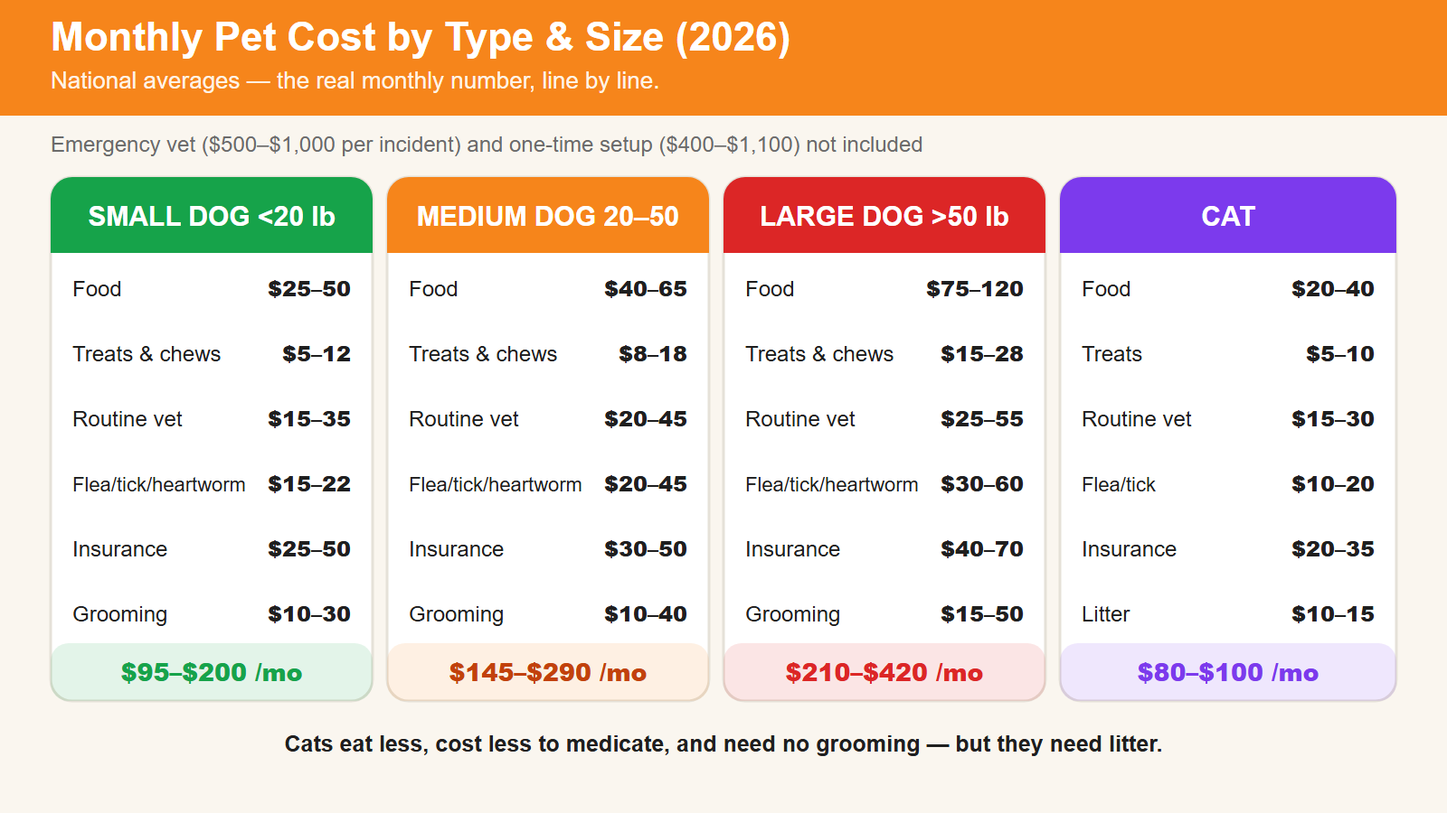
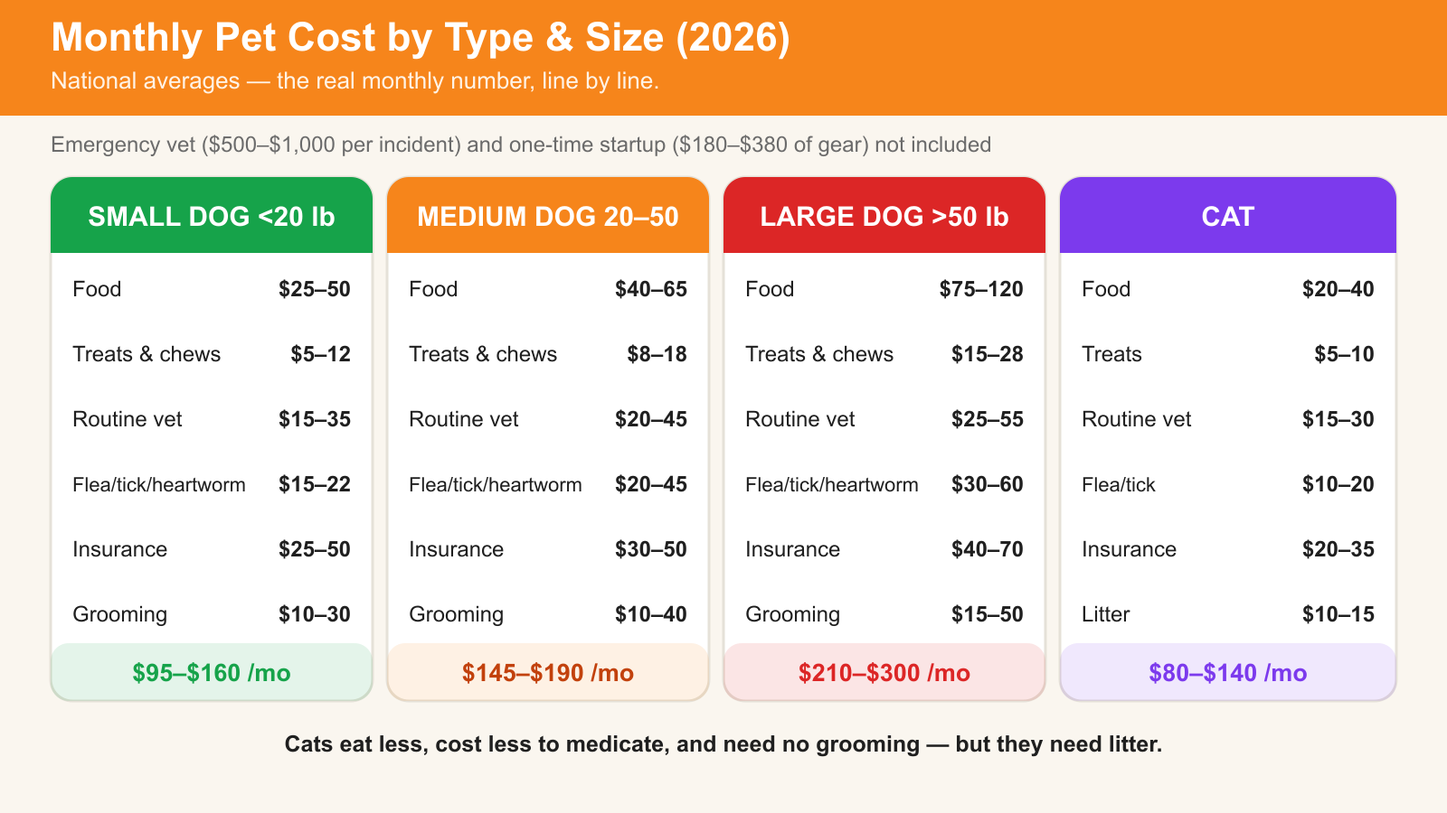
Cost calculator: add one-time startup costs
monthly-pet-cost now totals the one-time startup separately below the monthly
figure, so a reader sees both numbers instead of one blended lie. Nothing is
invented — every figure is taken from a page already published on the site.

Dog side (itemised, because the source is itemised):
  supplies      $180-$380   new-puppy-checklist's gear table
  adoption      $350        the shelter fee in first-year-dog-cost's tracker
  first-month   $225-$425   that checklist's first-30-days vet table
  => $755-$1,155 one-time

Cat side (bundled, deliberately not itemised): $500-$800 for year one from the
British Shorthair guide, which already includes spay/neuter, microchip, first
vaccines and basic supplies. Splitting it would double-count those.

No breed page publishes startup gear data, so this is per species, not per breed.

Also in this commit:

- FAQ wording unified. The "What's NOT included" answer quoted "roughly
  $400-$1,100 in year one", a figure the calculator no longer produces. It now
  cites the checklist's $180-$380 and says the calculator totals it separately.
  The visible <p> and the FAQPage schema text are word-for-word identical.

- monthly-pet-cost's Est. Monthly Total row was wrong in three of four columns
  ($95-100 / $145-190 / $210-320 / $80-100). Recomputed from that table's own
  line items: $95-160 / $145-190 / $210-300 / $80-140. All four now balance.
  Three of the cells also had a stray "C" where an en dash belonged
[…]

diff --git a/monthly-pet-cost.html b/monthly-pet-cost.html
@@ -26,7 +26,7 @@
   <meta name="twitter:image" content="https://www.meltpet.com/img/og/tools-og.png">
   <script type="application/ld+json">{"@context":"https://schema.org","@type":"WebApplication","name":"Monthly Pet Cost Calculator","description":"Interactive calculator estimating the real monthly cost of pet ownership.","url":"https://www.meltpet.com/monthly-pet-cost","applicationCategory":"Finance","author":{"@type":"Person","name":"Sarah Mitchell","url":"https://www.meltpet.com/sarah-mitchell"}}</script>
   <script type="application/ld+json">{"@context":"https://schema.org","@type":"Organization","name":"MeltPet","alternateName":"Melt Pet","url":"https://www.meltpet.com/","description":"Independent pet resource — breed finder, cost calculators, and evidence-backed guides."}</script>
-  <script type="application/ld+json">{"@context":"https://schema.org","@type":"FAQPage","mainEntity":[{"@type":"Question","name":"How accurate is this calculator for my specific situation?","acceptedAnswer":{"@type":"Answer","text":"Our calculator uses 2026 national average cost data from the American Veterinary Medical Association and American Pet Products Association. It gives you a solid budgeting baseline. But your actual number depends on where you live — vet care in New York City costs 30–50% more than in rural Ohio, and pet food prices vary by retailer and region. We recommend adding a 15–20% buffer when you use these numbers for actual budgeting. The calculator isn't meant to nail the exact dollar figure. It's meant to prevent the sticker shock that hits people who've already named the dog but haven't yet added up the numbers."}},{"@type":"Question","name":"What's NOT included in the monthly estimate?","acceptedAnswer":{"@type":"Answer","text":"The monthly number excludes: one-time setup costs (crate $40–100, bed $20–30, bowls, leash, collar — roughly $400–$1,100 in year one); emergency veterinary care ($500–$1,000 per incident — the calculator's insurance toggle partly covers this if you select it); boarding or pet sitting during travel ($25–35/night); training classes ($150–200 for a group course); and puppy destruction ($100–200 in year one). These aren't monthly but they're real, and they add up. Budget for them separately."}},{"@type":"Question","name":"Cat vs dog — which actually costs less?","acceptedAnswer":{"@type":"Answer","text":"Cats cost less. A typical indoor cat runs $80–100 per month versus $95–120 for a dog, depending on size. The gap comes from several places: cats eat less, their medications are dosed lower by weight, and most cats don't need professional grooming. Cats do have one cost dogs don't — litter, at $10–15/month. But the biggest driver of the gap is simply body mass. A 10-pound cat versus a 75-pound Golden Retriever: everything scales. The lifetime total tells the story clearly — a cat over 15 years may cost $14,000–16,000, while a large dog over 10 years can run $30,000–40,000."}},{"@type":"Question","name":"Does the calculator use breed-specific costs?","acceptedAnswer":{"@type":"Answer","text":"Only where we have published them. Eight breeds currently have a full monthly breakdown drawn from our own breed guides — Golden Retriever, all three Poodle sizes, Dachshund, French Bulldog, Sphynx and Bengal. Pick one of those and the calculator swaps in that breed’s real numbers instead of a size-band average. For every other breed it falls back to the size estimate and says so in the result. We would rather show you a labelled estimate than invent a breed figure."}}]}</script>
+  <script type="application/ld+json">{"@context":"https://schema.org","@type":"FAQPage","mainEntity":[{"@type":"Question","name":"How accurate is this calculator for my specific situation?","acceptedAnswer":{"@type":"Answer","text":"Our calculator uses 2026 national average cost data from the American Veterinary Medical Association and American Pet Products Association. It gives you a solid budgeting baseline. But your actual number depends on where you live — vet care in New York City costs 30–50% more than in rural Ohio, and pet food prices vary by retailer and region. We recommend adding a 15–20% buffer when you use these numbers for actual budgeting. The calculator isn't meant to nail the exact dollar figure. It's meant to prevent the sticker shock that hits people who've already named the dog but haven't yet added up the numbers."}},{"@type":"Question","name":"What's NOT included in the monthly estimate?","acceptedAnswer":{"@type":"Answer","text":"The monthly number excludes: one-time startup costs (gear $180–$380 from our itemised puppy checklist, plus the adoption fee and first-month vet — the calculator now totals this separately below your monthly figure); emergency veterinary care ($500–$1,000 per incident — the calculator's insurance toggle partly covers this if you select it); boarding or pet sitting during travel ($25–35/night); training classes ($150–200 for a group course); and puppy destruction ($100–200 in year one). These aren't monthly but they're real, and they add up. Budget for them separately."}},{"@type":"Question","name":"Cat vs dog — which actually costs less?","acceptedAnswer":{"@type":"Answer","text":"Cats cost less. A typical indoor cat runs $80–100 per month versus $95–120 for a dog, depending on size. The gap comes from several places: cats eat less, their medications are dosed lower by weight, and most cats don't need professional grooming. Cats do have one cost dogs don't — litter, at $10–15/month. But the biggest driver of the gap is simply body mass. A 10-pound cat versus a 75-pound Golden Retriever: everything scales. The lifetime total tells the story clearly — a cat over 15 years may cost $14,000–16,000, while a large dog over 10 years can run $30,000–40,000."}},{"@type":"Question","name":"Does the calculator use breed-specific costs?","acceptedAnswer":{"@type":"Answer","text":"Only where we have published them. Eight breeds currently have a full monthly breakdown drawn from our own breed guides — Golden Retriever, all three Poodle sizes, Dachshund, French Bulldog, Sphynx and Bengal. Pick one of those and the calculator swaps in that breed’s real numbers instead of a size-band average. For every other breed it falls back to the size estimate and says so in the result. We would rather show you a labelled estimate than invent a breed figure."}}]}</script>
 </head>
 <body>
   <a href="#main-content" class="skip-link">Skip to content</a>
@@ -74,7 +74,7 @@
   <button class="btn-primary" onclick="calculate()">💵 Calculate My Monthly Cost</button>
   <div class="result-card" id="result" style="display:none"></div>
   </div>
-  <img src="https://cdn.meltpet.com/article/monthly-pet-cost-by-type.png" alt="Monthly pet cost comparison by type and size: small dog $95-$200, medium dog $145-$290, large dog $210-$420, cat $80-$100 per month — food, treats, routine vet, flea and tick prevention, insurance, grooming, and litter line items" width="800" height="450" style="max-width:100%;height:auto;border-radius:8px;display:block;margin:20px 0;" loading="lazy">
+  <img src="https://cdn.meltpet.com/article/monthly-pet-cost-by-type.png" alt="Monthly pet cost comparison by type and size: small dog $95-$160, medium dog $145-$190, large dog $210-$300, cat $80-$140 per month — food, treats, routine vet, flea and tick prevention, insurance, grooming, and litter line items" width="800" height="450" style="max-width:100%;height:auto;border-radius:8px;display:block;margin:20px 0;" loading="lazy">
     <article class="article-section">
   <h2>💸 Cost Questions Pet Owners Actually Ask</h2>
 
@@ -82,7 +82,7 @@
   <p>Our calculator uses 2026 national average cost data from the American Veterinary Medical Association and American Pet Products Association. It gives you a solid budgeting baseline. But your actual number depends on where you live — vet care in New York City costs 30–50% more than in rural Ohio, and pet food prices vary by retailer and region. We recommend adding a 15–20% buffer when you use these numbers for actual budgeting. The calculator isn't meant to nail the exact dollar figure. It's meant to prevent the sticker shock that hits people who've already named the dog but haven't yet added up the numbers.</p>
 
   <h3>What's NOT included in the monthly estimate?</h3>
-  <p>The monthly number excludes: one-time setup costs (crate $40–100, bed $20–30, bowls, leash, collar — roughly $400–$1,100 in year one); emergency veterinary care ($500–$1,000 per incident — the calculator's insurance toggle partly covers this if you select it); boarding or pet sitting during travel ($25–35/night); training classes ($150–200 for a group course); and puppy destruction ($100–200 in year one). These aren't monthly but they're real, and they add up. Budget for them separately.</p>
+  <p>The monthly number excludes: one-time startup costs (gear $180–$380 from our itemised puppy checklist, plus the adoption fee and first-month vet — the calculator now totals this separately below your monthly figure); emergency veterinary care ($500–$1,000 per incident — the calculator's insurance toggle partly covers this if you select it); boarding or pet sitting during travel ($25–35/night); training classes ($150–200 for a group course); and puppy destruction ($100–200 in year one). These aren't monthly but they're real, and they add up. Budget for them separately.</p>
 
   <h3>Cat vs dog — which actually costs less?</h3>
   <p>Cats cost less. A typical indoor cat runs $80–100 per month versus $95–120 for a dog, depending on size. The gap comes from several places: cats eat less, their medications are dosed lower by weight, and most cats don't need professional grooming. Cats do have one cost dogs don't — litter, at $10–15/month. But the biggest driver of the gap is simply body mass. A 10-pound cat versus a 75-pound Golden Retriever: everything scales. The lifetime total tells the story clearly — a cat over 15 years may cost $14,000–16,000, while a large dog over 10 years can run $30,000–40,000.</p>
@@ -105,7 +105,7 @@
   <tr><td>Grooming</td><td>$10–20</td><td>$15–20</td><td>$20–30</td><td>$0–10</td></tr>
   <tr><td>Toys &amp; Supplies</td><td>$10–20</td><td>$15–25</td><td>$20–25</td><td>$10–20</td></tr>
   <tr><td>Litter (cats only)</td><td></td><td></td><td></td><td>$10–15</td></tr>
-  <tr style="border-top:2px solid var(--accent);"><td><strong>Est. Monthly Total</strong></td><td><strong>$95C100</strong></td><td><strong>$145C190</strong></td><td><strong>$210C320</strong></td><td><strong>$80–100</strong></td></tr>
+  <tr style="border-top:2px solid var(--accent);"><td><strong>Est. Monthly Total</strong></td><td><strong>$95–160</strong></td><td><strong>$145–190</strong></td><td><strong>$210–300</strong></td><td><strong>$80–140</strong></td></tr>
   </tbody>
   </table></div>
   <p style="font-size:0.83rem;color:var(--text-muted);">Ranges are national averages. Your actual cost depends on location, brand choices, and your pet's individual health. Emergency vet visits (not included above) add $500–$1,000 per incident.</p>
@@ -290,6 +290,41 @@
   // to line up — otherwise selecting "DIY" makes a Standard Poodle look cheap.
   var GROOM_RATIO = {diy:[0, 0.1], occasional:[0.45, 0.6], regular:[1, 1]};
 
+  // ── One-time startup costs ─────────────────────────────────────────────
+  // Two published sources, and they measure different things — so this is a
+  // range whose two ends each have a citation, not an invented spread:
+  //   · new-puppy-checklist's itemised gear table sums to $180–$380
+  //     (page rounds its own total to "Startup total $180–$380")
+  //   · first-year-dog-cost's 365-day tracker logged $480 of initial supplies,
+  //     which that page explains is the same list *plus* grooming gear and a
+  //     second gate.
+  //   · Adoption/source fee is the tracker's $350 shelter fee. Buying from a
+  //     breeder runs $800–$3,500 (adopt-vs-buy page) — a note, not a default,
+  //     because we can't know which path a reader took.
+  // Cats: British Shorthair guide publishes $500–800 for year one *including*
+  // spay/neuter, microchip, first vaccines and basic supplies — the only
+  // cat-side figure on the site, so it is used verbatim and labelled as such.
+  // 🔴 No breed page publishes startup gear data, so this CANNOT be per-breed.
+  //    It is per species. Don't wire it to BREEDS.
+  var STARTUP = {
+    dog: {
+      label:'Dog',
+      mode:'range',
+      supplies:[180, 380],
+      extras:[
+        {label:'Adoption or shelter fee', lo:350, loLabel:'$350 (shelter, adult dog)'},
+        {label:'First-month vet', lo:225, hi:425}
+      ],
+      note:'Gear is <a href="/new-puppy-checklist">the itemised checklist</a> ($180–$380). Our own 365-day tracker logged <a href="/first-year-dog-cost">$480</a> once grooming gear and a second gate were added. Vet figure is that checklist&rsquo;s first-30-days table.'
+    },
+    cat: {
+      label:'Cat',
+      mode:'bundled',
+      bundled:[500, 800],
+      bundledNote:'$500–800 for the whole first year including <strong>spay/neuter, microchip, first vaccinations and basic supplies</strong> (litter box, carrier, scratching posts, bed) — the figure published on our <a href="/british-shorthair-guide">British Shorthair guide</a>. Because it is already bundled, we don&rsquo;t itemise it: doing so would double-count the spay/neuter and shots.'
+    }
+  };
+
   function rGroom(bg, mode) {
     if (bg[0] === 0 && bg[1] === 0) return 0;
     var k = GROOM_RATIO[mode] || [1, 1];
@@ -365,6 +400,53 @@
   html += '</p>';
   html += '<p style="font-size:0.88rem;margin-top:10px;border-top:1px solid var(--border);padding-top:10px;">📅 <strong>$' + annual.toLocaleString() + '</strong> per year &nbsp;|&nbsp; 🐾 ~<strong>$' + lifetime.toLocaleString() + '</strong> lifetime estimate</p>';
   html += '<p style="font-size:0.76rem;color:var(--text-muted);margin-top:8px;">' + srcNote + '</p>';
+
+  // ── One-time startup block ─────────────────────────────────────────────
+  // Deliberately a SEPARATE block, never folded into the monthly total: mixing
+  // a $380 crate run into a per-month figure is how the "dogs cost $95/month"
+  // genre of advice ends up useless. We also keep emergency vet out of it —
+  // first-year-dog-cost's own $1,240 sock surgery was reimbursed $2,560, so it
+  // is a luck-dependent year, not a startup cost.
+  var isCat = pet.indexOf('cat') >= 0;
+  var S = isCat ? STARTUP.cat : STARTUP.dog;
+  var startHtml = '';
+  var sLo = 0, sHi = 0;   // hoisted: needed for the year-one total below both branches
+
+  if (S.mode === 'range') {
+    sLo = S.supplies[0]; sHi = S.supplies[1];
+    // extras with a known upper bound get added to both ends; the flat
+    // adoption fee ($350) has no range in the source, so it adds to both.
+    S.extras.forEach(function (e) {
+      sLo += e.lo;
+      sHi += (typeof e.hi === 'number' ? e.hi : e.lo);
+    });
+    startHtml += '<p class="big" style="font-size:1.5rem;">$' + sLo.toLocaleString() + '–$' + sHi.toLocaleString() + ' <span style="font-size:0.6em;">one-time</span></p>';
+    startHtml += '<p style="font-size:0.85rem;color:var(--text-secondary);margin-top:6px;">';
+    startHtml += 'Supplies: <strong>$' + S.supplies[0] + '–$' + S.supplies[1] + '</strong><br>';
+    S.extras.forEach(function (e) {
+      startHtml += e.label + ': <strong>' + (typeof e.hi === 'number' ? ('$' + e.lo + '–$' + e.hi) : e.loLabel) + '</strong><br>';
+    });
+    startHtml += '</p>';
+    startHtml += '<p style="font-size:0.76rem;color:var(--text-muted);margin-top:6px;">' + S.note + '</p>';
+  } else {
+    startHtml += '<p class="big" style="font-size:1.5rem;">$' + S.bundled[0] + '–$' + S.bundled[1] + ' <span style="font-size:0.6em;">first year</span></p>';
+    startHtml += '<p style="font-size:0.76rem;color:var(--text-muted);margin-top:6px;">' + S.bundledNote + '</p>';
+  }
+
+  // Year-one total: 12 months of the number we just computed + the startup cost.
+  // Only shown with the range caveat attached, because both operands are ranges
+  // and adding two ranges silently turns a wide uncertainty into a fake number.
+  var yLow = Math.round((total * 12) + (S.mode === 'range' ? (sLo || 0) : S.bundled[0]));
+  var yHigh = Math.round((total * 12) + (S.mode === 'range' ? (sHi || 0) : S.bundled[1]));
+
+  html += '<div style="margin-top:16px;padding-top:14px;border-top:1px solid var(--border);">';
+  html += '<p style="font-size:0.78rem;font-weight:700;text-transform:uppercase;letter-spacing:0.5px;color:var(--text-muted);margin:0 0 8px;">🎒 One-Time Startup (' + S.label + ')</p>';
+  html += startHtml;
+  if (typeof yLow === 'number' && isFinite(yLow) && typeof yHigh === 'number' && isFinite(yHigh)) {
+    html += '<p style="font-size:0.88rem;margin-top:12px;padding-top:10px;border-top:1px dashed var(--border);">🗓 <strong>Year one, all in: $' + yLow.toLocaleString() + '–$' + yHigh.toLocaleString() + '</strong> <span style="color:var(--text-muted);font-size:0.85em;">($' + (total * 12).toLocaleString() + ' of monthly costs &times; 12, plus startup)</span></p>';
+  }
+  html += '<p style="font-size:0.74rem;color:var(--text-muted);margin-top:6px;">Both figures are ranges, and they are added to each other here — treat the pair as a band, not a target. Not included: emergency vet care (the $1,240 sock surgery in our tracker was reimbursed $2,560), boarding, puppy destruction, or dental cleanings. See <a href="/hidden-costs-of-dog-ownership">hidden costs</a>.</p>';
+  html += '</div>';
 
   if (breedRisk) {
     html += '<div style="margin-top:12px;padding:10px 12px;border-left:3px solid var(--accent);background:rgba(246,133,27,0.07);font-size:0.8rem;line-height:1.55;">';

diff --git a/golden-vs-labrador.html b/golden-vs-labrador.html
@@ -26,7 +26,7 @@
     <meta name="twitter:title" content="Golden Retriever vs Labrador Retriever: Which One Is Right for You?">
     <meta name="twitter:description" content="Same family. Different dogs. Which retriever fits your actual life? Full side-by-side comparison.">
     <meta name="twitter:image" content="https://www.meltpet.com/img/og/golden-vs-labrador-og.png">
-    <script type="application/ld+json">{"@context":"https://schema.org","@type":"Article","headline":"Golden Retriever vs Labrador Retriever: Which One Is Right for You?","description":"A detailed side-by-side comparison of Golden Retrievers and Labrador Retrievers: temperament, exercise, health, cost, and which fits your actual lifestyle.","datePublished":"2026-07-26","dateModified":"2026-07-26","author":{"@type":"Person","name":"Sarah Mitchell","url":"https://www.meltpet.com/sarah-mitchell"},"publisher":{"@type":"Organization","name":"MeltPet","url":"https://www.meltpet.com/"},"reviewedBy":{"@type":"Organization","name":"MeltPet Team","description":"All health claims cross-checked against peer-reviewed veterinary sources and breed club health data."}}</script>
+    <script type="application/ld+json">{"@context":"https://schema.org","@type":"Article","headline":"Golden Retriever vs Labrador Retriever: Which One Is Right for You?","description":"A detailed side-by-side comparison of Golden Retrievers and Labrador Retrievers: temperament, exercise, health, cost, and which fits your actual lifestyle.","datePublished":"2026-07-26","dateModified":"2026-09-21","author":{"@type":"Person","name":"Sarah Mitchell","url":"https://www.meltpet.com/sarah-mitchell"},"publisher":{"@type":"Organization","name":"MeltPet","url":"https://www.meltpet.com/"},"reviewedBy":{"@type":"Organization","name":"MeltPet Team","description":"All health claims cross-checked against peer-reviewed veterinary sources and breed club health data."}}</script>
     <script type="application/ld+json">{"@context":"https://schema.org","@type":"Organization","name":"MeltPet","alternateName":"Melt Pet","url":"https://www.meltpet.com/","description":"Independent pet resource — breed finder, cost calculators, and evidence-backed guides."}</script>
     <script type="application/ld+json">{"@context":"https://schema.org","@type":"FAQPage","mainEntity":[{"@type":"Question","name":"Which is better for families — Golden Retriever or Labrador?","acceptedAnswer":{"@type":"Answer","text":"Both are excellent family dogs, but in different ways. Goldens are softer — more patient with very young children, gentler-mouthed, quicker to settle indoors. Labs are more durable — they bounce back from rough play better and have higher physical tolerance. If you have toddlers, the Golden's natural gentleness is harder to beat. If you have rambunctious 8-to-12-year-olds who want to wrestle and play fetch for hours, the Lab will outlast them. The bigger difference is the puppy phase: a Lab puppy is harder work for longer (three years of chaos vs. the Golden's two). A family with young kids and limited time for training should lean Golden."}},{"@type":"Question","name":"Which breed is easier to train?","acceptedAnswer":{"@type":"Answer","text":"Goldens are easier for novice trainers. They're more sensitive to voice tone, more eager to please, and less likely to get distracted mid-session. Labs are highly trainable — they're ranked #7 in working intelligence vs. the Golden's #4 — but they're more impulsive, more food-obsessed to the point of distraction, and require more consistency. A Golden forgives training mistakes; a Lab exploits them. Both breeds respond poorly to harsh corrections. Both excel with positive reinforcement. The gap matters most in the first two years: a Golden puppy wants to figure out what you want. A Lab puppy wants to figure out what you want — right after it finishes eating this interesting-looking rock."}},{"@type":"Question","name":"Which breed sheds more?","acceptedAnswer":{"@type":"Answer","text":"They shed differently but comparably. Goldens produce longer, feathery fur that forms tumbleweeds under furniture. Labs produce shorter, coarse hairs that weave into fabric and are harder to vacuum out of car upholstery. Both shed year-round with two heavy seasonal blows. Both will coat your floors, clothes, and food with fur. Neither is a low-shedding breed. If fur is a dealbreaker, neither dog is right for you. Between the two: Golden fur is more visible on dark surfaces; Lab fur is harder to remove from fabric."}},{"@type":"Question","name":"What's the lifespan difference?","acceptedAnswer":{"@type":"Answer","text":"Both breeds average 10–12 years. Goldens have a higher cancer burden — approximately 60% will develop cancer, which lowers the breed's median lifespan relative to their potential maximum. Labs are more likely to be euthanized for mobility issues (severe arthritis, failed cruciate surgeries, obesity-related joint collapse). A well-bred Golden from cancer-aware lines and a well-bred Labrador kept at a lean weight both have a good shot at 12–14 years. The quality of the breeder matters more for Golden longevity. Weight management matters more for Lab longevity."}}]}</script>
 </head>
@@ -57,12 +57,12 @@
             <h1>🦮 Golden Retriever <span>vs</span> 🐕 Labrador Retriever</h1>
             <p>They look the same to your mother-in-law. Your dog will know the difference. So should you. | 2026-07-26 · MeltPet · 8 min read</p>
         </div>
-        <p class="last-updated" style="font-size:0.8rem;color:var(--text-muted);margin:2px 0 14px;">Last updated: 2026-07-26</p>
+        <p class="last-updated" style="font-size:0.8rem;color:var(--text-muted);margin:2px 0 14px;">Last updated: 2026-09-21</p>
 
         <!-- INTRO -->
         <article class="article-section">
             <h2>People Ask Me "Golden or Lab?" Like It's a Trivia Question. It's Not.</h2>
-            <p><strong>Golden Retrievers and Labrador Retrievers cost nearly the same to own ($185–$325 per month, or $2,220–$3,900 per year for either breed) — but they diverge sharply on health risk: roughly 60% of Golden Retrievers develop cancer, while 40–60% of Labs tear a CCL knee ligament (each repair costs $2,500–$5,000).</strong> Over a 12-year lifespan both breeds run $27,000–$47,000 in routine care, so the real decision isn't cost — it's which health lottery and which temperament you're signing up for.</p>
+            <p><strong>Golden Retrievers and Labrador Retrievers cost nearly the same to own ($185–$355 per month, or $2,220–$4,260 per year for either breed) — but they diverge sharply on health risk: roughly 60% of Golden Retrievers develop cancer, while 40–60% of Labs tear a CCL knee ligament (each repair costs $2,500–$5,000).</strong> Over a 12-year lifespan both breeds run $27,000–$47,000 in routine care, so the real decision isn't cost — it's which health lottery and which temperament you're signing up for.</p>
             <p>I've spent enough time around both breeds to know that asking "which is better" is the wrong question. They're both retrievers. They're both friendly, trainable, medium-to-large family dogs with floppy ears and an enthusiasm for water that borders on the pathological. To someone who doesn't know dogs, they're interchangeable — the two yellow-ish breeds on the dog food bag.</p>
             <p>But the gap between a Golden Retriever and a Labrador Retriever is real, and it matters most in the moments you don't see on a breeder's website: the third time your Lab puppy counter-surfs a rotisserie chicken. The sixth month of Golden fur tumbleweeds rolling across your living room floor. The emergency vet visit when your Lab eats a sock. The way a Golden looks at you when you raise your voice — like you've personally betrayed them.</p>
             <p>This isn't a "which is better" article. It's a "which is better <em>for you</em>" article. The difference matters.</p>
@@ -214,8 +214,8 @@
                 <tr><td>Pet insurance</td><td>$35–$50</td><td>$35–$50</td></tr>
                 <tr><td>Grooming (every 6–8 wks)</td><td>$20–$40</td><td>$10–$20</td></tr>
                 <tr><td>Toys, beds, misc.</td><td>$15–$30</td><td>$20–$40</td></tr>
-                <tr style="border-top:2px solid var(--accent);"><td><strong>Total Monthly</strong></td><td><strong>$185–$325</strong></td><td><strong>$185–$325</strong></td></tr>
-                <tr><td><strong>Yearly</strong></td><td><strong>$2,220–$3,900</strong></td><td><strong>$2,220–$3,900</strong></td></tr>
+                <tr style="border-top:2px solid var(--accent);"><td><strong>Total Monthly</strong></td><td><strong>$185–$355</strong></td><td><strong>$185–$355</strong></td></tr>
+                <tr><td><strong>Yearly</strong></td><td><strong>$2,220–$4,260</strong></td><td><strong>$2,220–$4,260</strong></td></tr>
                 </tbody>
             </table></div>
             <p><strong>Where the costs diverge:</strong> Goldens cost more in grooming (that feathered coat tangles and needs professional attention). Labs cost more in toy replacement — they destroy things faster, eat more things that aren't food, and lead the league in foreign-body surgeries ($1,500–$5,000 for a sock or corn cob). Over a 12-year lifespan, both breeds cost roughly $27,000–$47,000 in routine care, plus whatever emergencies the health lottery throws at you. Plan for $3,000–$8,000 in major veterinary costs regardless of which breed you pick. Pet insurance is not a luxury for either of these breeds.</p>
@@ -267,7 +267,7 @@
                     <text x="398" y="252" font-family="Inter, sans-serif" font-size="11" fill="#8C8C8C">Labrador</text>
                 </svg>
             </div>
-        <figure style="margin:20px 0;text-align:center;"><img src="img/article/golden-vs-labrador-infographic.png" alt="Golden retriever vs labrador retriever comparison infographic: both cost $185-325 a month, 60% of goldens develop cancer, 40-60% of labs tear a CCL" width="800" height="450" style="max-width:100%;height:auto;border-radius:10px;display:block;margin:0 auto;" loading="lazy"><figcaption style="font-size:0.82rem;color:var(--text-muted,#6B6B6B);margin-top:6px;">Same price tag, different health lottery — the 12-year math on both breeds.</figcaption></figure></article>
+        <figure style="margin:20px 0;text-align:center;"><img src="img/article/golden-vs-labrador-infographic.png" alt="Golden retriever vs labrador retriever comparison infographic: both cost $185-355 a month, 60% of goldens develop cancer, 40-60% of labs tear a CCL" width="800" height="450" style="max-width:100%;height:auto;border-radius:10px;display:block;margin:0 auto;" loading="lazy"><figcaption style="font-size:0.82rem;color:var(--text-muted,#6B6B6B);margin-top:6px;">Same price tag, different health lottery — the 12-year math on both breeds.</figcaption></figure></article>
 
         <!-- SHEDDING & GROOMING -->
         <article class="article-section">

diff --git a/adopt-vs-buy-full-cost-breakdown.html b/adopt-vs-buy-full-cost-breakdown.html
@@ -77,7 +77,7 @@
                 <tr style="border-top:2px solid var(--accent);"><td><strong>First-year total</strong></td><td><strong>$1,250–$3,000</strong></td><td><strong>$2,300–$3,750</strong></td></tr>
                 </tbody>
             </table></div>
-            <p>Adoption saves you $1,000–3,000 in year one. That's real money. But when you're weighing adopt vs breeder, the acquisition fee is the smallest piece of the lifetime puzzle. A $500 adoption that develops $8,000 in health problems is more expensive than a $2,500 well-bred puppy from screened lines. The question isn't just "which costs less to acquire" — it's "which costs less across a lifespan, and which gives you the best chance at a healthy, stable companion."</p>—,000 in year one. That's real money. But the acquisition fee is the smallest piece of the lifetime puzzle. A $500 adoption that develops $8,000 in health problems is more expensive than a $2,500 well-bred puppy from screened lines. The question isn't just "which costs less to acquire" — it's "which costs less across a lifespan, and which gives you the best chance at a healthy, stable companion."</p>
+            <p>Adoption saves you $1,000–3,000 in year one. That's real money. But when you're weighing adopt vs breeder, the acquisition fee is the smallest piece of the lifetime puzzle. A $500 adoption that develops $8,000 in health problems is more expensive than a $2,500 well-bred puppy from screened lines. The question isn't just "which costs less to acquire" — it's "which costs less across a lifespan, and which gives you the best chance at a healthy, stable companion."</p>
         </article>
         <img src="https://cdn.meltpet.com/article/adopt-vs-buy-lifetime.png" alt="Lifetime dog cost breakdown: acquisition is only 3-10% of the total — food $6,000-$12,000, routine vet $4,000-$8,000, emergency vet up to $8,000, insurance $3,000-$6,000, grooming and supplies $2,000-$5,000, totaling roughly $16,000-$36,000 over 10+ years" width="800" height="450" style="max-width:100%;height:auto;border-radius:8px;display:block;margin:20px 0;" loading="lazy">
         <article class="article-section">
